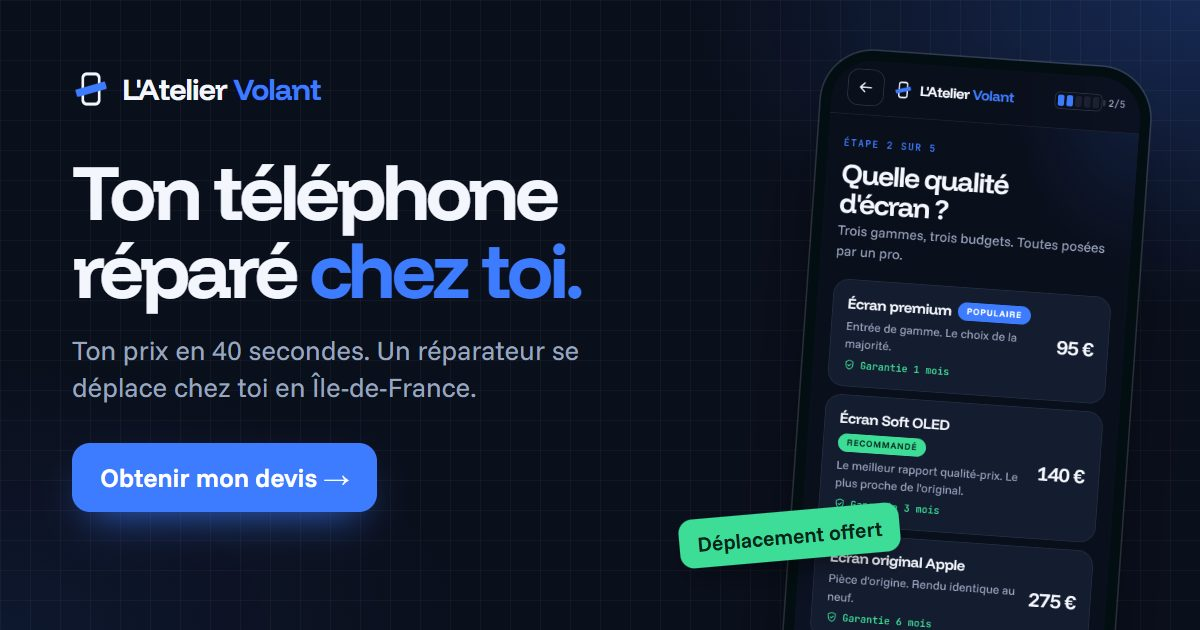
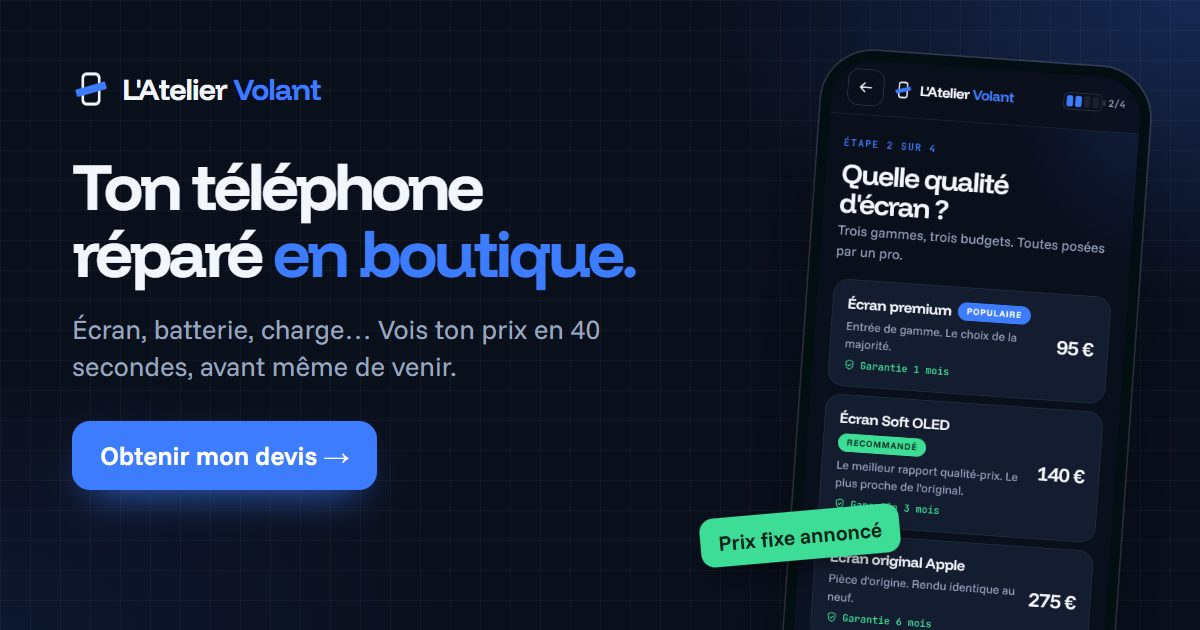
Version boutique : plus de déplacement à domicile ni d'étape « Quand ? »
Accueil, textes, FAQ, avis, messages WhatsApp et image d'aperçu adaptés
à une boutique fixe ; le département oriente vers la boutique la plus proche.

diff --git a/app.js b/app.js
@@ -75,7 +75,7 @@ const minScreen = Math.min(...Object.values(MODELS).map((m) => screenFrom(m)).fi
 /* État du devis */
 const D = {
   brand: "apple", model: null, query: "", customOpen: false, customText: "", sousMarque: "",
-  pannes: [], tier: null, dept: null, quand: null, quandLbl: "", prenom: "", tel: "", ref: "", auto: false,
+  pannes: [], tier: null, dept: null, prenom: "", tel: "", ref: "", auto: false,
   via: "", fPrenom: "", fTel: "", fSent: null
 };
 const isCustom = () => !!(D.model && !D.model.prices);
@@ -87,28 +87,9 @@ const deptTxt = () => {
   return d ? `${d[1]} (${d[0]})` : D.dept;
 };
 
-/* Quand le client veut le réparateur (calculé selon l'heure et les jours ouverts) */
-const fmtDate = (d, o) => new Intl.DateTimeFormat("fr-FR", o).format(d);
+/* Petits outils de texte et de date */
 const cap = (s) => s.charAt(0).toUpperCase() + s.slice(1);
 const todayIso = () => { const d = new Date(); return `${d.getFullYear()}-${pad(d.getMonth() + 1)}-${pad(d.getDate())}`; };
-function quandOptions() {
-  const now = new Date();
-  const open = (d) => E.joursOuverts.includes(d.getDay());
-  const demain = new Date(now);
-  demain.setDate(now.getDate() + 1);
-  const next = new Date(demain);
-  for (let i = 0; i < 7 && !open(next); i++) next.setDate(next.getDate() + 1);
-  const todayOk = open(now) && now.getHours() < E.heureFin - 2;
-  const nextNom = next.toDateString() === demain.toDateString() ? "Demain" : cap(fmtDate(next, { weekday: "long" }));
-  return [
-    { id: "auj", nom: "Aujourd'hui", sub: todayOk ? "Si un créneau est libre" : "Plus de créneau aujourd'hui", off: !todayOk, ico: "flash",
-      lbl: `Aujourd'hui (${fmtDate(now, { weekday: "long", day: "numeric", month: "long" })})` },
-    { id: "dem", nom: nextNom, sub: cap(fmtDate(next, { weekday: "long", day: "numeric", month: "long" })), ico: "cal",
-      lbl: `${nextNom} (${fmtDate(next, { weekday: "long", day: "numeric", month: "long" })})`.replace(/^(\p{L}+) \(\1 /iu, "$1 (") },
-    { id: "sem", nom: "Cette semaine", sub: "Le jour qui t'arrange", ico: "cal", lbl: "Cette semaine" },
-    { id: "pp", nom: "Je ne suis pas pressé", sub: "On cale ça ensemble", ico: "clock", lbl: "Pas pressé" }
-  ];
-}
 
 /* D'où vient le client : ?via=tiktok dans le lien, sinon le navigateur intégré de l'appli, sinon le site d'origine */
 function detectVia() {
@@ -146,7 +127,7 @@ function saveDraft() {
       ts: Date.now(), day: todayIso(), brand: D.brand,
       modelId: D.model.prices ? D.model.id : null,
       custom: D.model.prices ? null : { brand: D.model.brand, name: D.model.name },
-      pannes: D.pannes, tier: D.tier, dept: D.dept, quand: D.quand, quandLbl: D.quandLbl, prenom: D.prenom
+      pannes: D.pannes, tier: D.tier, dept: D.dept, prenom: D.prenom
     }));
   } catch (err) { /* stockage indisponible : tant pis */ }
 }
@@ -161,11 +142,10 @@ function loadDraft() {
   D.pannes = (d.pannes || []).filter((id) => PANNE[id] || id === S.diagnostic.id);
   D.tier = d.tier || null;
   D.dept = d.dept || null;
-  if (d.day === todayIso()) { D.quand = d.quand || null; D.quandLbl = d.quandLbl || ""; }
   D.prenom = d.prenom || "";
 }
 function resetDevis() {
-  Object.assign(D, { model: null, query: "", customOpen: false, customText: "", sousMarque: "", pannes: [], tier: null, dept: null, quand: null, quandLbl: "", ref: "", auto: false });
+  Object.assign(D, { model: null, query: "", customOpen: false, customText: "", sousMarque: "", pannes: [], tier: null, dept: null, ref: "", auto: false });
   clearDraft();
 }
 const resumeTarget = () => {
@@ -173,7 +153,6 @@ const resumeTarget = () => {
   if (!D.pannes.length) return "pannes";
   if (D.pannes.includes("ecran") && !D.tier) return "qualite";
   if (!D.dept) return "zone";
-  if (!D.quand) return "quand";
   return "numero";
 };
 
@@ -233,10 +212,7 @@ const lineTxt = (l) => {
 
 function msgReparateur() {
   const c = calc();
-  const quand = D.quand === "auj" ? "Je peux passer aujourd'hui, quel créneau t'arrange ?"
-    : D.quand === "dem" ? `Pour ${D.quandLbl.split(" (")[0].toLowerCase()}, quel créneau t'arrange ?`
-    : "Quel jour et quelle heure t'arrangent ?";
-  const reply = `Bonjour${D.prenom ? " " + D.prenom : ""}, ici ${E.nom} 👋 Ton devis n° ${D.ref} pour ton ${modelName()} : ${c.onQuote ? "on regarde ensemble" : euro(c.total)}, déplacement offert. ${quand}`;
+  const reply = `Bonjour${D.prenom ? " " + D.prenom : ""}, ici ${E.nom} 👋 Ton devis n° ${D.ref} pour ton ${modelName()} : ${c.onQuote ? "on regarde ensemble" : euro(c.total)}. Tu peux passer en boutique quand tu veux, ou dis-moi quand ça t'arrange.`;
   return [
     `🔧 Nouveau devis · ${E.nom}`,
     `N° ${D.ref}`,
@@ -246,7 +222,6 @@ function msgReparateur() {
     `💶 Total : ${c.onQuote ? "à confirmer" : euro(c.total)}`,
     "",
     `📍 ${deptTxt()}`,
-    `🗓 ${D.quandLbl}`,
     `👤 ${D.prenom || "Client"} · ${telNational(D.tel)}`,
     viaTxt() ? `📣 Venu de : ${viaTxt()}` : "",
     "",
@@ -264,7 +239,6 @@ function msgClient() {
     `💶 Total : ${c.onQuote ? "à confirmer" : euro(c.total)}`,
     "",
     `📍 ${deptTxt()}`,
-    `🗓 ${D.quandLbl}`,
     `👤 ${D.prenom || ""} · ${telNational(D.tel)}`.trim(),
     viaTxt() ? `📣 Je vous ai trouvé sur ${viaTxt()}` : ""
   ].filter((l, i, a) => l !== "" || i < a.length - 1).join("\n");
@@ -287,8 +261,8 @@ function envoyerAuto(texte) {
 /* ------------------------------------------------------------------ */
 /* Navigation                                                          */
 /* ------------------------------------------------------------------ */
-const STEP = { modele: 1, pannes: 2, qualite: 2, zone: 3, quand: 4, numero: 5, devis: 5 };
-const STEPS = 5;
+const STEP = { modele: 1, pannes: 2, qualite: 2, zone: 3, numero: 4, devis: 4 };
+const STEPS = 4;
 let page = "home";
 let depth = 0;
 let useHistory = true;
@@ -296,16 +270,15 @@ let useHistory = true;
 const prevOf = (p) => ({
   modele: "home", pannes: "modele", qualite: "pannes",
   zone: D.pannes.includes("ecran") ? "qualite" : "pannes",
-  quand: "zone", numero: "quand", devis: "numero", formation: "home"
+  numero: "zone", devis: "numero", formation: "home"
 })[p] || "home";
 
 function guard(p) {
   const is = (list) => list.includes(p);
-  if (is(["pannes", "qualite", "zone", "quand", "numero", "devis"]) && !D.model) return "modele";
-  if (is(["qualite", "zone", "quand", "numero", "devis"]) && !D.pannes.length) return "pannes";
+  if (is(["pannes", "qualite", "zone", "numero", "devis"]) && !D.model) return "modele";
+  if (is(["qualite", "zone", "numero", "devis"]) && !D.pannes.length) return "pannes";
   if (p === "qualite" && !D.pannes.includes("ecran")) return "zone";
-  if (is(["quand", "numero", "devis"]) && !D.dept) return "zone";
-  if (is(["numero", "devis"]) && !D.quand) return "quand";
+  if (is(["numero", "devis"]) && !D.dept) return "zone";
   if (p === "formation" && !(S.formation && S.formation.actif)) return "home";
   if (p === "devis" && !D.ref) return "numero";
   return p;
@@ -350,7 +323,7 @@ const VIEWS = {
     const resume = D.model && !D.ref ? `
         <div class="resume">
           <span class="resume__ico">${icon("phone", "ico--s")}</span>
-          <span class="resume__txt"><b>Ton devis en cours</b><span>${esc(modelName())}${n ? ` · ${n} réparation${n > 1 ? "s" : ""}` : ""}</span></span>
+          <span class="resume__txt"><b>Devis en cours</b><span>${esc(modelName())}${n ? ` · ${n} réparation${n > 1 ? "s" : ""}` : ""}</span></span>
           <button type="button" class="resume__go" data-act="resume">Reprendre</button>
           <button type="button" class="resume__x" data-act="drop-draft" aria-label="Effacer ce devis">${icon("plus", "ico--xs")}</button>
         </div>` : "";
@@ -359,13 +332,12 @@ const VIEWS = {
         ${resume}
         ${deux
           ? head("Qu'est-ce qui t'amène&nbsp;?", "Deux services, deux chemins. Choisis le tien.")
-          : head("Ton téléphone réparé chez toi.", `Écran, batterie, charge… Un réparateur se déplace chez toi en ${esc(E.region)}.`)}
+          : head("Ton téléphone réparé en boutique.", "Écran, batterie, charge… Vois ton prix avant même de venir.")}
         <div class="choices">
           <a class="choice choice--hi" href="#reparer" data-go="modele">
-            <span class="badge badge--accent">${icon("maison", "ico--xs")} Réparation à domicile</span>
             <h2>${deux ? "Réparer mon téléphone" : "Obtenir mon devis"}</h2>
-            <p>${deux ? `Ton prix en 40 secondes, un réparateur chez toi en ${esc(E.region)}.` : "Choisis ton modèle et la panne : ton prix s'affiche en 40 secondes."}</p>
-            <span class="choice__foot"><span class="choice__from">Écran dès <b>${euro(minScreen)}</b> · déplacement offert</span><span class="go">${icon("arrow")}</span></span>
+            <p>${deux ? "Ton prix en 40 secondes, sans surprise en boutique." : "Choisis ton modèle et la panne : ton prix s'affiche en 40 secondes."}</p>
+            <span class="choice__foot"><span class="choice__from">Écran dès <b>${euro(minScreen)}</b> · prix fixe annoncé</span><span class="go">${icon("arrow")}</span></span>
           </a>
           ${F && F.actif ? `
           <a class="choice" href="#formation" data-go="formation">
@@ -425,7 +397,7 @@ const VIEWS = {
         ${head("Qu'est-ce qu'il faut réparer&nbsp;?", `${esc(modelName())} · choisis ce qui correspond.`, stepK("pannes"))}
         <div class="promo"><span class="promo__ico">${icon("percent", "ico--s")}</span><p>Tu peux en choisir plusieurs<b>−${R.deuxieme}&nbsp;% sur ta 2<sup>e</sup> réparation, −${R.suivantes}&nbsp;% sur les suivantes</b></p></div>
         <div class="list">${rows.join("")}</div>
-        ${isCustom() ? '<p class="note">Prix indicatifs : ton modèle n\'est pas dans notre liste, on te confirme le prix sur WhatsApp.</p>' : '<p class="note">Prix comprenant la pièce et la main-d\'œuvre. Déplacement offert.</p>'}
+        ${isCustom() ? '<p class="note">Prix indicatifs : ton modèle n\'est pas dans notre liste, on te confirme le prix sur WhatsApp.</p>' : '<p class="note">Prix comprenant la pièce et la main-d\'œuvre.</p>'}
       </div>`;
   },
 
@@ -450,22 +422,11 @@ const VIEWS = {
 
   zone: () => `
     <div class="page">
-      ${head("Tu es dans quel département&nbsp;?", "Le réparateur se déplace chez toi.", stepK("zone"))}
+      ${head("Tu es dans quel département&nbsp;?", "On t'oriente vers la boutique la plus proche.", stepK("zone"))}
       <div class="depts">
         ${S.zone.departements.map(([num, nom]) => `<button type="button" class="dept" data-dept="${num}" aria-pressed="${D.dept === num}"><b>${esc(num)}</b><span>${esc(nom)}</span></button>`).join("")}
         <button type="button" class="dept dept--wide" data-dept="hors" aria-pressed="${D.dept === "hors"}">${esc(S.zone.horsZone)}</button>
       </div>
-    </div>`,
-
-  quand: () => `
-    <div class="page">
-      ${head("Tu veux le réparateur quand&nbsp;?", "On te confirme l'heure exacte sur WhatsApp.", stepK("quand"))}
-      <div class="whens">${quandOptions().map((o) => `
-        <button type="button" class="when" data-quand="${o.id}" aria-pressed="${D.quand === o.id}"${o.off ? " disabled" : ""}>
-          <span class="when__ico">${icon(o.ico, "ico--s")}</span>
-          <span class="when__txt"><b>${esc(o.nom)}</b><span>${esc(o.sub)}</span></span>
-          ${icon(D.quand === o.id ? "check" : "chev", "chev")}
-        </button>`).join("")}</div>
     </div>`,
 
   numero: () => {
@@ -474,9 +435,9 @@ const VIEWS = {
     return `
       <div class="page">
         ${head(hors ? "On regarde si c'est possible" : "Ton devis arrive", hors
-          ? `On ne se déplace pas encore partout hors ${esc(E.region)}. Laisse ton numéro : on te dit sur WhatsApp si on peut venir.`
+          ? `On n'a pas encore de boutique hors ${esc(E.region)}. Laisse ton numéro : on te dit sur WhatsApp ce qu'on peut faire pour toi.`
           : `Laisse ton numéro, on t'écrit sur <b style="color:var(--ink)">WhatsApp</b> dans les ${esc(E.delaiReponse)}.`, stepK("numero"))}
-        <div class="recapmini"><span class="recapmini__ico">${icon("check", "ico--s")}</span><span class="recapmini__txt"><b>${esc(modelName())}</b><span>${c.lines.length} réparation${c.lines.length > 1 ? "s" : ""} · ${esc(deptTxt())} · ${esc(D.quandLbl.split(" (")[0])}</span></span></div>
+        <div class="recapmini"><span class="recapmini__ico">${icon("check", "ico--s")}</span><span class="recapmini__txt"><b>${esc(modelName())}</b><span>${c.lines.length} réparation${c.lines.length > 1 ? "s" : ""} · ${esc(deptTxt())}</span></span></div>
         <form id="telForm" novalidate style="display:grid;gap:14px">
           <div class="field"><label for="fPrenom">Ton prénom <span class="opt">facultatif</span></label><input class="input" id="fPrenom" type="text" autocomplete="given-name" enterkeyhint="next" value="${esc(D.prenom)}"></div>
           <div class="field">
@@ -502,14 +463,13 @@ const VIEWS = {
         ${status}
         <article class="ticket">
           <div class="ticket__top"><span class="tape">Devis</span><span class="ticket__ref">${esc(new Intl.DateTimeFormat("fr-FR").format(new Date()))}</span></div>
-          <p class="ticket__model">${esc(modelName())}<span>${esc(deptTxt())} · ${esc(D.quandLbl.split(" (")[0])}${isCustom() ? " · prix indicatif" : ""}</span></p>
+          <p class="ticket__model">${esc(modelName())}<span>${esc(deptTxt())}${isCustom() ? " · prix indicatif" : ""}</span></p>
           ${c.lines.map((l) => `
             <div class="tl">
               <span class="tl__n">${esc(l.nom)}${l.remise ? `<span class="minus">−${l.remise}&nbsp;%</span>` : ""}</span>
               <span class="tl__m">${esc(l.meta)}</span>
               <span class="tl__p">${l.final == null ? "Sur devis" : l.diag && l.final === 0 ? "Offert" : euro(l.final)}${l.remise ? `<s>${euro(l.prix)}</s>` : ""}</span>
             </div>`).join("")}
-          <div class="tl"><span class="tl__n">Déplacement</span><span class="tl__m">${esc(E.region)}</span><span class="tl__p">Offert</span></div>
           <div class="cut"></div>
           <div class="ticket__total"><span>Total</span><b>${c.onQuote ? "À confirmer" : euro(c.total)}</b></div>
           ${c.save ? `<p class="ticket__save">Tu économises ${euro(c.save)} avec la remise multi-réparations.</p>` : ""}
@@ -527,8 +487,8 @@ const VIEWS = {
         </div>
         <p class="section-t">Et maintenant&nbsp;?</p>
         <ol class="how">
-          <li><span class="how__n">01</span><span class="how__txt"><b>On te confirme un créneau</b><span>Sur WhatsApp, au moment qui t'arrange.</span></span></li>
-          <li><span class="how__n">02</span><span class="how__txt"><b>Le réparateur vient chez toi</b><span>Il répare sous tes yeux, en général en moins d'une heure.</span></span></li>
+          <li><span class="how__n">01</span><span class="how__txt"><b>On te répond sur WhatsApp</b><span>On confirme ton devis et on prépare la pièce.</span></span></li>
+          <li><span class="how__n">02</span><span class="how__txt"><b>Tu passes en boutique</b><span>La plupart des réparations sont faites en moins d'une heure.</span></span></li>
           <li><span class="how__n">03</span><span class="how__txt"><b>Tu paies quand tout marche</b><span>Carte, espèces ou virement instantané.</span></span></li>
         </ol>
       </div>`;
@@ -684,16 +644,7 @@ document.addEventListener("click", (ev) => {
   const tier = t.closest("[data-tier]");
   if (tier) { D.tier = tier.dataset.tier; refresh(); setTimeout(() => go("zone"), 200); return; }
   const dept = t.closest("[data-dept]");
-  if (dept) { D.dept = dept.dataset.dept; refresh(); setTimeout(() => go("quand"), 170); return; }
-  const quand = t.closest("[data-quand]");
-  if (quand && !quand.disabled) {
-    const o = quandOptions().find((x) => x.id === quand.dataset.quand);
-    D.quand = o.id;
-    D.quandLbl = o.lbl;
-    refresh();
-    setTimeout(() => go("numero"), 170);
-    return;
-  }
+  if (dept) { D.dept = dept.dataset.dept; refresh(); setTimeout(() => go("numero"), 170); return; }
 
   const act = t.closest("[data-act]");
   if (!act || act.disabled) return;

diff --git a/index.html b/index.html
@@ -3,14 +3,14 @@
 <head>
 <meta charset="utf-8">
 <meta name="viewport" content="width=device-width, initial-scale=1, viewport-fit=cover">
-<meta name="description" content="Réparation de téléphone à domicile en Île-de-France. Ton prix en 40 secondes, un réparateur chez toi.">
+<meta name="description" content="Réparation de téléphone en boutique. Écran, batterie, charge : ton prix en 40 secondes, sans surprise.">
 <meta name="theme-color" content="#0A0F1C">
 <title>L'Atelier Volant · Ton prix en 40 secondes</title>
 <!-- Aperçu du lien (WhatsApp, Instagram, SMS…) : adresses COMPLÈTES, à changer si le site change d'adresse -->
 <meta property="og:type" content="website">
 <meta property="og:site_name" content="L'Atelier Volant">
-<meta property="og:title" content="Ton téléphone réparé chez toi · L'Atelier Volant">
-<meta property="og:description" content="Écran, batterie, charge… Ton prix en 40 secondes, un réparateur se déplace chez toi en Île-de-France.">
+<meta property="og:title" content="Ton téléphone réparé en boutique · L'Atelier Volant">
+<meta property="og:description" content="Écran, batterie, charge… Choisis ton modèle et vois ton prix en 40 secondes, avant même de venir.">
 <meta property="og:url" content="https://elyasberdouz-stack.github.io/atelier-volant/">
 <meta property="og:image" content="https://elyasberdouz-stack.github.io/atelier-volant/apercu.jpg">
 <meta property="og:image:width" content="1200">
@@ -211,28 +211,13 @@ body.has-bar .view{padding-bottom:170px}
 .dept span{color:var(--muted);font-size:.9rem}
 .dept--wide{grid-column:1/-1;min-height:64px;font-weight:600}
 
-/* Quand */
-.whens{display:grid;gap:10px}
-.when{display:flex;align-items:center;gap:14px;width:100%;min-height:78px;padding:14px 16px;border-radius:18px;background:var(--card);border:1.5px solid var(--line);text-align:left;transition:border-color .2s,background-color .2s,transform .15s}
-.when:hover{border-color:var(--line-2)}
-.when:active{transform:scale(.99)}
-.when[aria-pressed="true"]{border-color:var(--accent);background:var(--card-2)}
-.when:disabled{opacity:.42;cursor:not-allowed}
-.when__ico{width:44px;height:44px;border-radius:13px;display:grid;place-items:center;flex:none;background:var(--accent-soft);color:var(--accent)}
-.when:first-child:not(:disabled) .when__ico{background:var(--accent);color:var(--accent-ink)}
-.when__txt{flex:1;min-width:0}
-.when__txt b{display:block;font-size:1.08rem}
-.when__txt span{display:block;font-size:.9rem;color:var(--muted)}
-.when .chev{color:var(--faint)}
-.when[aria-pressed="true"] .chev{color:var(--accent)}
-
 /* Devis en cours */
 .resume{display:flex;align-items:center;gap:12px;padding:12px 12px 12px 14px;border-radius:18px;background:var(--ok-soft);border:1px solid var(--ok-line)}
-.resume__ico{width:40px;height:40px;border-radius:12px;display:grid;place-items:center;flex:none;background:var(--ok);color:var(--ok-ink)}
+.resume__ico{width:36px;height:36px;border-radius:12px;display:grid;place-items:center;flex:none;background:var(--ok);color:var(--ok-ink)}
 .resume__txt{flex:1;min-width:0}
 .resume__txt b{display:block;font-size:.98rem;white-space:nowrap;overflow:hidden;text-overflow:ellipsis}
 .resume__txt span{display:block;font-size:.86rem;color:var(--muted);white-space:nowrap;overflow:hidden;text-overflow:ellipsis}
-.resume__go{min-height:40px;padding:0 14px;border-radius:12px;background:var(--ok);color:var(--ok-ink);font-weight:650;font-size:.92rem;flex:none}
+.resume__go{min-height:40px;padding:0 12px;border-radius:12px;background:var(--ok);color:var(--ok-ink);font-weight:650;font-size:.92rem;flex:none}
 .resume__x{width:34px;height:34px;border-radius:50%;display:grid;place-items:center;flex:none;color:var(--muted);transform:rotate(45deg)}
 .resume__x:hover{color:var(--ink);background:var(--hover)}
 

diff --git a/config.js b/config.js
@@ -88,7 +88,7 @@ window.SITE = {
   prixIndicatifs: [60, 90, 180, 60, 60, 70, 60, 45, 45, 45],
 
   /* ---------------- Marques, modèles et prix ----------------
-     Prix en euros, pièce + main-d'œuvre, déplacement offert.
+     Prix en euros, pièce + main-d'œuvre.
      Ordre des 10 prix :
        écran premium, écran Soft OLED, écran original,
        batterie, connecteur, caméra, vitre arrière, haut-parleur, micro, boutons.
@@ -291,9 +291,9 @@ window.SITE = {
   avisExemples: true,
   avis: [
     { prenom: "Camille", lieu: "Paris 11e", note: 5, reparation: "Écran Soft OLED · iPhone 14",
-      texte: "Écran changé sur la table du salon pendant ma pause déj. Le prix était exactement celui du site." },
+      texte: "Écran changé pendant ma pause déj, j'ai attendu sur place. Le prix était exactement celui du site." },
     { prenom: "Mehdi", lieu: "Montreuil", note: 5, reparation: "Batterie · Galaxy S22",
-      texte: "Message WhatsApp en 3 minutes, réparateur chez moi le soir même. Très pro." },
+      texte: "Réponse sur WhatsApp en 3 minutes, téléphone réparé le jour même. Très pro." },
     { prenom: "Sophie", lieu: "Boulogne", note: 5, reparation: "Connecteur · iPhone 12",
       texte: "Je pensais devoir racheter un téléphone. C'était juste le connecteur, réparé en 40 minutes." },
     { prenom: "Julien", lieu: "Créteil", note: 4, reparation: "Vitre arrière · Pixel 8",
@@ -304,15 +304,15 @@ window.SITE = {
      Mots remplacés automatiquement : {region}, {delai}, {diagnostic}. */
   faq: [
     { q: "Le prix affiché, c'est le prix final ?",
-      r: "Oui. C'est un prix fixe, pièce et main-d'œuvre comprises, déplacement offert en {region}. Si le réparateur découvre une autre panne sur place, il te prévient avant de toucher à quoi que ce soit." },
+      r: "Oui. C'est un prix fixe, pièce et main-d'œuvre comprises. Si le réparateur découvre une autre panne, il te prévient avant de toucher à quoi que ce soit." },
     { q: "Combien de temps dure une réparation ?",
-      r: "La plupart des réparations prennent 30 à 60 minutes, chez toi, sous tes yeux. Une vitre arrière peut demander un peu plus." },
-    { q: "Tu viens vraiment chez moi ?",
-      r: "Oui : chez toi, au bureau ou où tu veux en {region}. Il faut juste une table et un peu de lumière." },
+      r: "La plupart des réparations prennent 30 à 60 minutes : tu peux attendre en boutique ou revenir le récupérer. Une vitre arrière peut demander un peu plus." },
+    { q: "Il faut prendre rendez-vous ?",
+      r: "Ce n'est pas obligatoire. Mais en envoyant ton devis avant de venir, tu es sûr que la pièce est prête quand tu arrives." },
     { q: "Quel écran choisir ?",
       r: "Le Soft OLED est le meilleur compromis : presque identique à l'original pour bien moins cher. Le premium dépanne pour un petit budget, l'original est là si tu veux exactement la pièce du constructeur." },
     { q: "Quelle garantie ?",
-      r: "De 1 à 6 mois selon la pièce choisie. Si un souci vient de la réparation, on revient gratuitement." },
+      r: "De 1 à 6 mois selon la pièce choisie. Si un souci vient de la réparation, on la reprend gratuitement." },
     { q: "Je paie comment ?",
       r: "Après la réparation, une fois que tout marche : carte, espèces ou virement instantané." },
     { q: "Et si je ne sais pas ce qui ne va pas ?",
